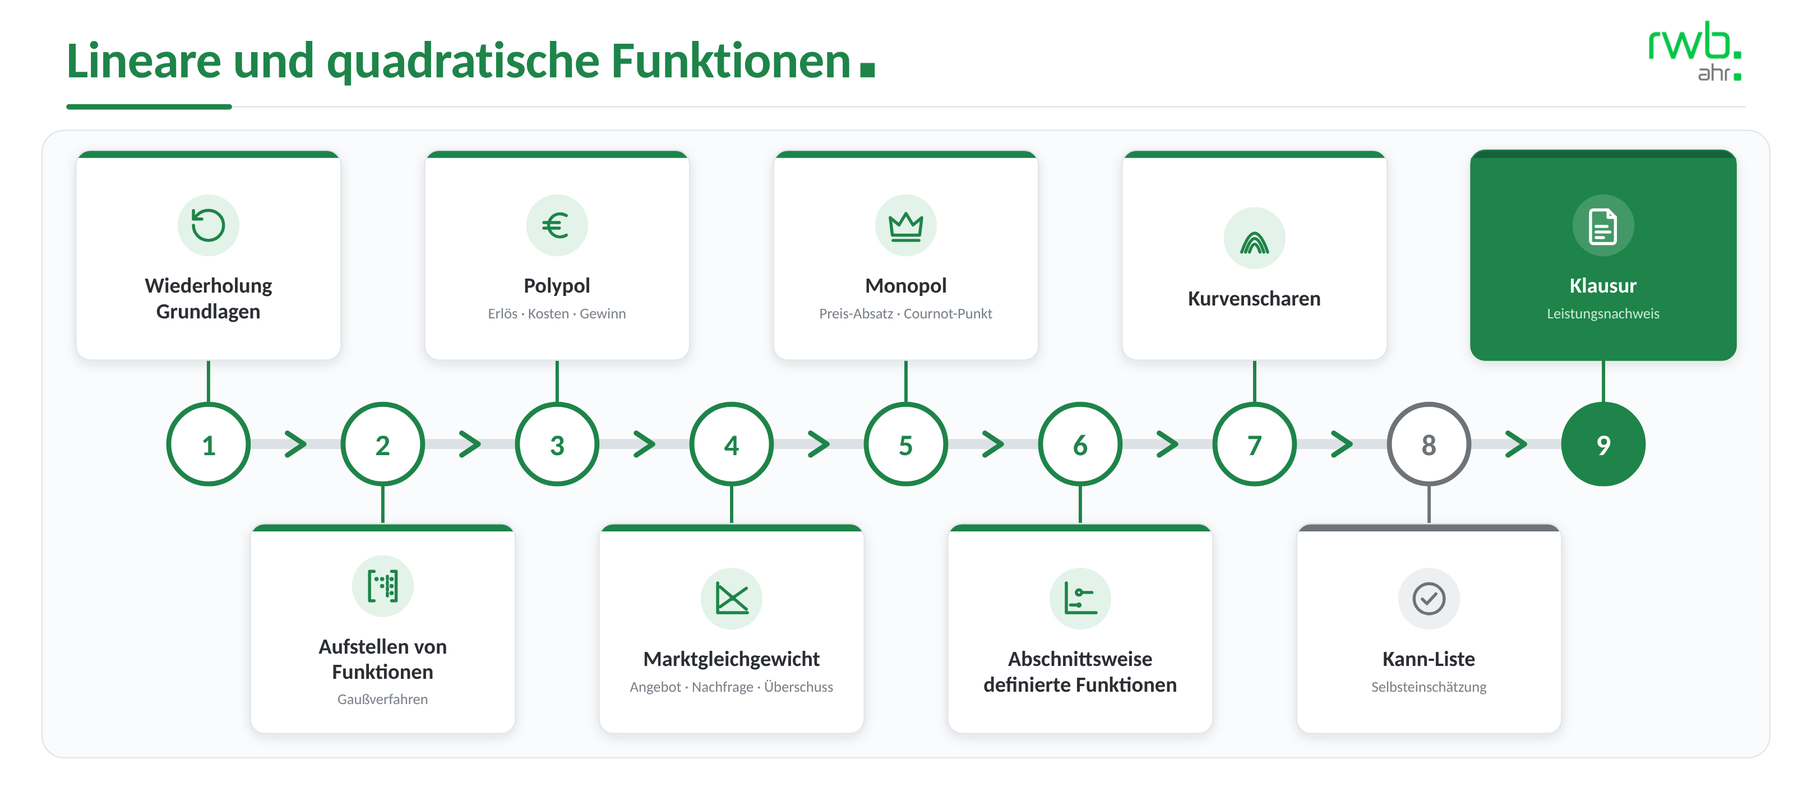
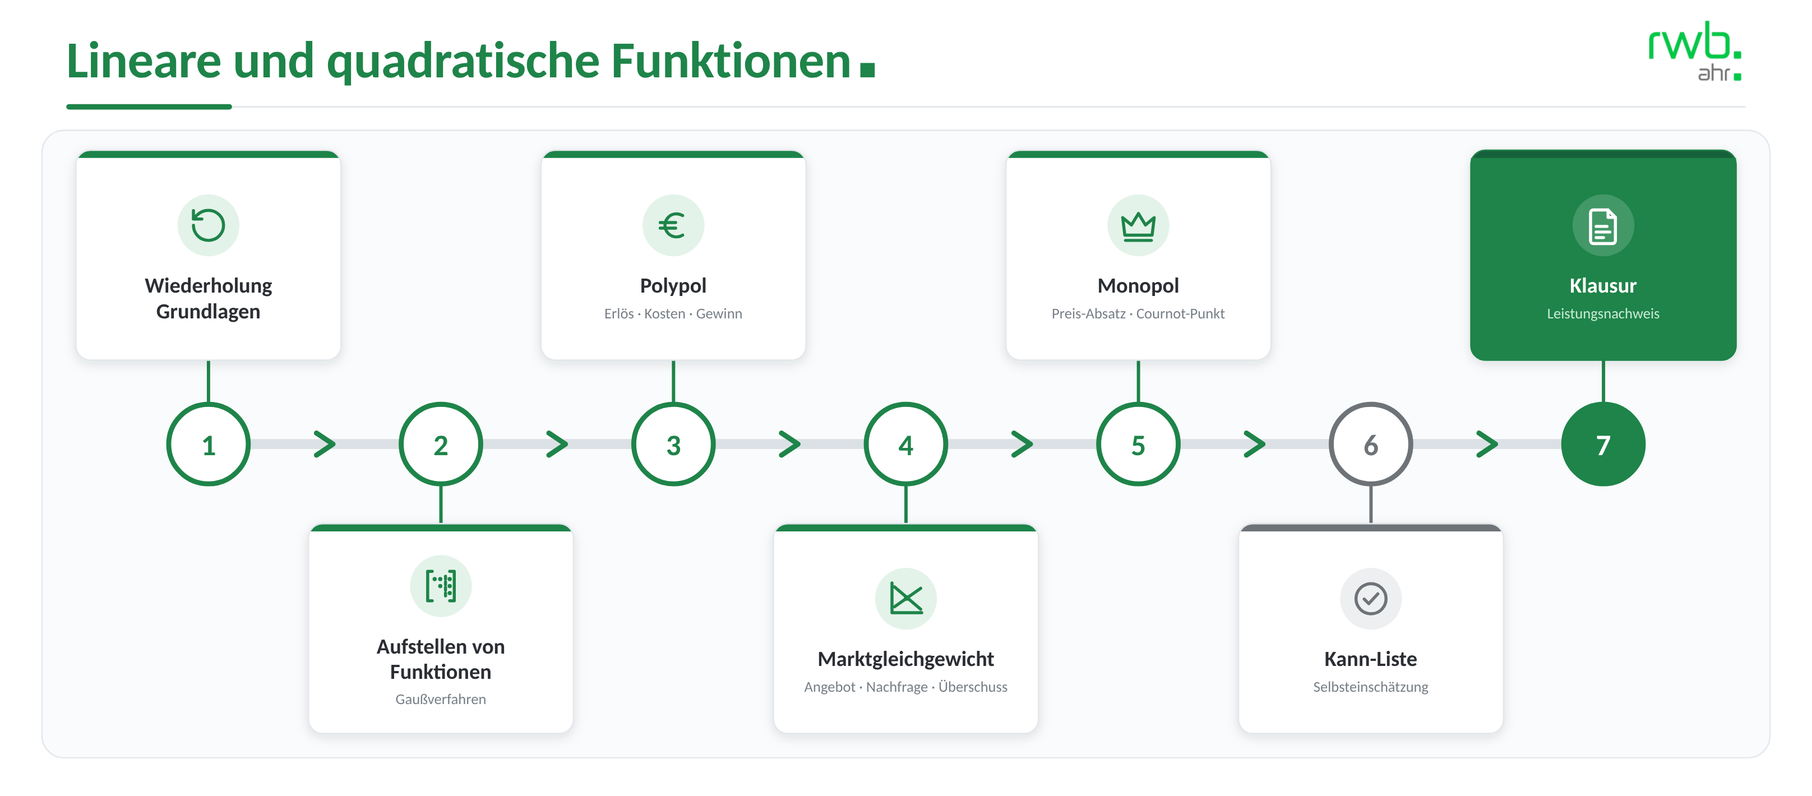
Lernlandkarte HAW: ohne Abschnittsweise definierte Funktionen und Kurvenscharen
Claude-Session: https://claude.ai/code/session_01KHnMYmCPgM823KCyKF4ujP

diff --git a/Lineare und quadratische Funktionen/Lernlandkarte_Lineare_und_quadratische_Funktionen_HAW.html b/Lineare und quadratische Funktionen/Lernlandkarte_Lineare_und_quadratische_Funktionen_HAW.html
@@ -28,7 +28,7 @@ svg{display:block; width:100%; height:auto;}
      LERNLANDKARTE – LINEARE UND QUADRATISCHE FUNKTIONEN (HAW, Q2)
      Übersicht ohne Verlinkungen. Die Klickpunkte werden in Moodle gesetzt.
      Variante A: Lernlandkarte_Lineare_und_quadratische_Funktionen_HAW.png als Bild mit Hotspots.
-     Variante B: Jede Station liegt als eigene SVG-Gruppe vor: <g id="station-1"> … <g id="station-9">
+     Variante B: Jede Station liegt als eigene SVG-Gruppe vor: <g id="station-1"> … <g id="station-7">
        Zum Verlinken die Gruppe umschliessen: <a href="URL" target="_top"><g id="station-1"> … </g></a>
      ====================================================================== -->
 <div class="wrap"><div class="card">
@@ -42,32 +42,26 @@ svg{display:block; width:100%; height:auto;}
 <rect x="60" y="96" width="1520" height="1.4" fill="#E3E7EC"/>
 <rect x="60" y="94.2" width="150" height="5" rx="2.5" fill="#1E8449"/>
 <rect x="188.7" y="397.5" width="1262.6" height="9" rx="4.5" fill="#DCE1E6"/>
-<path d="M260.1 392 L275.1 402 L260.1 412" fill="none" stroke="#1E8449" stroke-width="4.6" stroke-linecap="round" stroke-linejoin="round"/>
-<path d="M417.9 392 L432.9 402 L417.9 412" fill="none" stroke="#1E8449" stroke-width="4.6" stroke-linecap="round" stroke-linejoin="round"/>
-<path d="M575.8 392 L590.8 402 L575.8 412" fill="none" stroke="#1E8449" stroke-width="4.6" stroke-linecap="round" stroke-linejoin="round"/>
-<path d="M733.6 392 L748.6 402 L733.6 412" fill="none" stroke="#1E8449" stroke-width="4.6" stroke-linecap="round" stroke-linejoin="round"/>
-<path d="M891.4 392 L906.4 402 L891.4 412" fill="none" stroke="#1E8449" stroke-width="4.6" stroke-linecap="round" stroke-linejoin="round"/>
-<path d="M1049.2 392 L1064.2 402 L1049.2 412" fill="none" stroke="#1E8449" stroke-width="4.6" stroke-linecap="round" stroke-linejoin="round"/>
-<path d="M1207.1 392 L1222.1 402 L1207.1 412" fill="none" stroke="#1E8449" stroke-width="4.6" stroke-linecap="round" stroke-linejoin="round"/>
-<path d="M1364.9 392 L1379.9 402 L1364.9 412" fill="none" stroke="#1E8449" stroke-width="4.6" stroke-linecap="round" stroke-linejoin="round"/>
+<path d="M286.4 392 L301.4 402 L286.4 412" fill="none" stroke="#1E8449" stroke-width="4.6" stroke-linecap="round" stroke-linejoin="round"/>
+<path d="M496.8 392 L511.8 402 L496.8 412" fill="none" stroke="#1E8449" stroke-width="4.6" stroke-linecap="round" stroke-linejoin="round"/>
+<path d="M707.3 392 L722.3 402 L707.3 412" fill="none" stroke="#1E8449" stroke-width="4.6" stroke-linecap="round" stroke-linejoin="round"/>
+<path d="M917.7 392 L932.7 402 L917.7 412" fill="none" stroke="#1E8449" stroke-width="4.6" stroke-linecap="round" stroke-linejoin="round"/>
+<path d="M1128.1 392 L1143.1 402 L1128.1 412" fill="none" stroke="#1E8449" stroke-width="4.6" stroke-linecap="round" stroke-linejoin="round"/>
+<path d="M1338.6 392 L1353.6 402 L1338.6 412" fill="none" stroke="#1E8449" stroke-width="4.6" stroke-linecap="round" stroke-linejoin="round"/>
 <g id="station-1"><rect x="187.2" y="326" width="3" height="40" fill="#1E8449"/><g filter="url(#soft)"><rect x="68.7" y="136" width="240" height="190" rx="13" fill="#1E8449"/></g><path d="M68.7 143 h240 v170 a13 13 0 0 1 -13 13 h-214 a13 13 0 0 1 -13 -13 z" fill="#FFFFFF"/><rect x="68.7" y="136" width="240" height="190" rx="13" fill="none" stroke="#E3E7EC" stroke-width="1.3"/><circle cx="188.7" cy="204.0" r="28" fill="#E3F3E9"/><g transform="translate(169.7,185.0) scale(1.5833)" fill="none" stroke="#1E8449" stroke-width="1.75" stroke-linecap="round" stroke-linejoin="round"><path d="M3.4 12a8.6 8.6 0 1 0 8.6-8.6 9.3 9.3 0 0 0-6.5 2.7L3.4 8.2"/><path d="M3.4 3.6V8.4H8.2"/></g><text x="188.7" y="265.0" text-anchor="middle" font-family="Carlito, Calibri, 'Segoe UI', 'Helvetica Neue', Arial, sans-serif" font-size="19.5" font-weight="700" fill="#2B2E33">Wiederholung</text><text x="188.7" y="288.0" text-anchor="middle" font-family="Carlito, Calibri, 'Segoe UI', 'Helvetica Neue', Arial, sans-serif" font-size="19.5" font-weight="700" fill="#2B2E33">Grundlagen</text></g>
-<g id="station-2"><rect x="345.0" y="438" width="3" height="36" fill="#1E8449"/><g filter="url(#soft)"><rect x="226.5" y="474" width="240" height="190" rx="13" fill="#1E8449"/></g><path d="M226.5 481 h240 v170 a13 13 0 0 1 -13 13 h-214 a13 13 0 0 1 -13 -13 z" fill="#FFFFFF"/><rect x="226.5" y="474" width="240" height="190" rx="13" fill="none" stroke="#E3E7EC" stroke-width="1.3"/><circle cx="346.5" cy="530.5" r="28" fill="#E3F3E9"/><g transform="translate(327.5,511.5) scale(1.5833)" fill="none" stroke="#1E8449" stroke-width="1.75" stroke-linecap="round" stroke-linejoin="round"><path d="M7 3.6H4.4v16.8H7"/><path d="M17 3.6h2.6v16.8H17"/><path d="M14.6 6.4v11.2" stroke-dasharray="1.6 1.6"/><circle cx="8.4" cy="8" r="1.2" fill="#1E8449" stroke="none"/><circle cx="11.6" cy="8" r="1.2" fill="#1E8449" stroke="none"/><circle cx="17" cy="8" r="1.2" fill="#1E8449" stroke="none"/><circle cx="11.6" cy="12" r="1.2" fill="#1E8449" stroke="none"/><circle cx="17" cy="12" r="1.2" fill="#1E8449" stroke="none"/><circle cx="17" cy="16" r="1.2" fill="#1E8449" stroke="none"/></g><text x="346.5" y="591.5" text-anchor="middle" font-family="Carlito, Calibri, 'Segoe UI', 'Helvetica Neue', Arial, sans-serif" font-size="19.5" font-weight="700" fill="#2B2E33">Aufstellen von</text><text x="346.5" y="614.5" text-anchor="middle" font-family="Carlito, Calibri, 'Segoe UI', 'Helvetica Neue', Arial, sans-serif" font-size="19.5" font-weight="700" fill="#2B2E33">Funktionen</text><text x="346.5" y="637.5" text-anchor="middle" font-family="Carlito, Calibri, 'Segoe UI', 'Helvetica Neue', Arial, sans-serif" font-size="13.5" fill="#787F87">Gaußverfahren</text></g>
-<g id="station-3"><rect x="502.8" y="326" width="3" height="40" fill="#1E8449"/><g filter="url(#soft)"><rect x="384.3" y="136" width="240" height="190" rx="13" fill="#1E8449"/></g><path d="M384.3 143 h240 v170 a13 13 0 0 1 -13 13 h-214 a13 13 0 0 1 -13 -13 z" fill="#FFFFFF"/><rect x="384.3" y="136" width="240" height="190" rx="13" fill="none" stroke="#E3E7EC" stroke-width="1.3"/><circle cx="504.3" cy="204.0" r="28" fill="#E3F3E9"/><g transform="translate(485.3,185.0) scale(1.5833)" fill="none" stroke="#1E8449" stroke-width="1.75" stroke-linecap="round" stroke-linejoin="round"><path d="M17.2 6.4A6.6 6.6 0 1 0 17.2 17.6"/><path d="M4.4 10.4H13.2"/><path d="M4.4 13.6H13.2"/></g><text x="504.3" y="265.0" text-anchor="middle" font-family="Carlito, Calibri, 'Segoe UI', 'Helvetica Neue', Arial, sans-serif" font-size="19.5" font-weight="700" fill="#2B2E33">Polypol</text><text x="504.3" y="288.0" text-anchor="middle" font-family="Carlito, Calibri, 'Segoe UI', 'Helvetica Neue', Arial, sans-serif" font-size="13.5" fill="#787F87">Erlös · Kosten · Gewinn</text></g>
-<g id="station-4"><rect x="660.7" y="438" width="3" height="36" fill="#1E8449"/><g filter="url(#soft)"><rect x="542.2" y="474" width="240" height="190" rx="13" fill="#1E8449"/></g><path d="M542.2 481 h240 v170 a13 13 0 0 1 -13 13 h-214 a13 13 0 0 1 -13 -13 z" fill="#FFFFFF"/><rect x="542.2" y="474" width="240" height="190" rx="13" fill="none" stroke="#E3E7EC" stroke-width="1.3"/><circle cx="662.2" cy="542.0" r="28" fill="#E3F3E9"/><g transform="translate(643.2,523.0) scale(1.5833)" fill="none" stroke="#1E8449" stroke-width="1.75" stroke-linecap="round" stroke-linejoin="round"><path d="M4 3V20H21"/><path d="M5.4 5.2L20.4 18"/><path d="M5.4 16.6L20.4 6"/><circle cx="12.4" cy="11.6" r="1.6" fill="#1E8449" stroke="none"/></g><text x="662.2" y="603.0" text-anchor="middle" font-family="Carlito, Calibri, 'Segoe UI', 'Helvetica Neue', Arial, sans-serif" font-size="19.5" font-weight="700" fill="#2B2E33">Marktgleichgewicht</text><text x="662.2" y="626.0" text-anchor="middle" font-family="Carlito, Calibri, 'Segoe UI', 'Helvetica Neue', Arial, sans-serif" font-size="13.5" fill="#787F87">Angebot · Nachfrage · Überschuss</text></g>
-<g id="station-5"><rect x="818.5" y="326" width="3" height="40" fill="#1E8449"/><g filter="url(#soft)"><rect x="700.0" y="136" width="240" height="190" rx="13" fill="#1E8449"/></g><path d="M700.0 143 h240 v170 a13 13 0 0 1 -13 13 h-214 a13 13 0 0 1 -13 -13 z" fill="#FFFFFF"/><rect x="700.0" y="136" width="240" height="190" rx="13" fill="none" stroke="#E3E7EC" stroke-width="1.3"/><circle cx="820.0" cy="204.0" r="28" fill="#E3F3E9"/><g transform="translate(801.0,185.0) scale(1.5833)" fill="none" stroke="#1E8449" stroke-width="1.75" stroke-linecap="round" stroke-linejoin="round"><path d="M4.2 17.6 3 7.6l5 4.2 4-6.6 4 6.6 5-4.2-1.2 10Z"/><path d="M4.6 20.6H19.4"/></g><text x="820.0" y="265.0" text-anchor="middle" font-family="Carlito, Calibri, 'Segoe UI', 'Helvetica Neue', Arial, sans-serif" font-size="19.5" font-weight="700" fill="#2B2E33">Monopol</text><text x="820.0" y="288.0" text-anchor="middle" font-family="Carlito, Calibri, 'Segoe UI', 'Helvetica Neue', Arial, sans-serif" font-size="13.5" fill="#787F87">Preis-Absatz · Cournot-Punkt</text></g>
-<g id="station-6"><rect x="976.3" y="438" width="3" height="36" fill="#1E8449"/><g filter="url(#soft)"><rect x="857.8" y="474" width="240" height="190" rx="13" fill="#1E8449"/></g><path d="M857.8 481 h240 v170 a13 13 0 0 1 -13 13 h-214 a13 13 0 0 1 -13 -13 z" fill="#FFFFFF"/><rect x="857.8" y="474" width="240" height="190" rx="13" fill="none" stroke="#E3E7EC" stroke-width="1.3"/><circle cx="977.8" cy="542.0" r="28" fill="#E3F3E9"/><g transform="translate(958.8,523.0) scale(1.5833)" fill="none" stroke="#1E8449" stroke-width="1.75" stroke-linecap="round" stroke-linejoin="round"><path d="M4 3V20H21"/><path d="M6.4 15.6H11.2"/><path d="M11.2 8.4H18.6"/><circle cx="11.2" cy="15.6" r="1.5" fill="#1E8449" stroke="none"/><circle cx="11.2" cy="8.4" r="1.5" fill="#FFFFFF"/></g><text x="977.8" y="603.0" text-anchor="middle" font-family="Carlito, Calibri, 'Segoe UI', 'Helvetica Neue', Arial, sans-serif" font-size="19.5" font-weight="700" fill="#2B2E33">Abschnittsweise</text><text x="977.8" y="626.0" text-anchor="middle" font-family="Carlito, Calibri, 'Segoe UI', 'Helvetica Neue', Arial, sans-serif" font-size="19.5" font-weight="700" fill="#2B2E33">definierte Funktionen</text></g>
-<g id="station-7"><rect x="1134.1" y="326" width="3" height="40" fill="#1E8449"/><g filter="url(#soft)"><rect x="1015.6" y="136" width="240" height="190" rx="13" fill="#1E8449"/></g><path d="M1015.6 143 h240 v170 a13 13 0 0 1 -13 13 h-214 a13 13 0 0 1 -13 -13 z" fill="#FFFFFF"/><rect x="1015.6" y="136" width="240" height="190" rx="13" fill="none" stroke="#E3E7EC" stroke-width="1.3"/><circle cx="1135.6" cy="215.5" r="28" fill="#E3F3E9"/><g transform="translate(1116.6,196.5) scale(1.5833)" fill="none" stroke="#1E8449" stroke-width="1.75" stroke-linecap="round" stroke-linejoin="round"><path d="M4.6 20 Q12 -1.5 19.4 20"/><path d="M6.8 20 Q12 4.5 17.2 20"/><path d="M9 20 Q12 11 15 20"/></g><text x="1135.6" y="276.5" text-anchor="middle" font-family="Carlito, Calibri, 'Segoe UI', 'Helvetica Neue', Arial, sans-serif" font-size="19.5" font-weight="700" fill="#2B2E33">Kurvenscharen</text></g>
-<g id="station-8"><rect x="1292.0" y="438" width="3" height="36" fill="#6E7378"/><g filter="url(#soft)"><rect x="1173.5" y="474" width="240" height="190" rx="13" fill="#6E7378"/></g><path d="M1173.5 481 h240 v170 a13 13 0 0 1 -13 13 h-214 a13 13 0 0 1 -13 -13 z" fill="#FFFFFF"/><rect x="1173.5" y="474" width="240" height="190" rx="13" fill="none" stroke="#E3E7EC" stroke-width="1.3"/><circle cx="1293.5" cy="542.0" r="28" fill="#EEEFF1"/><g transform="translate(1274.5,523.0) scale(1.5833)" fill="none" stroke="#6E7378" stroke-width="1.75" stroke-linecap="round" stroke-linejoin="round"><circle cx="12" cy="12" r="8.6"/><path d="M8.1 12.2l2.6 2.6 5.2-5.6"/></g><text x="1293.5" y="603.0" text-anchor="middle" font-family="Carlito, Calibri, 'Segoe UI', 'Helvetica Neue', Arial, sans-serif" font-size="19.5" font-weight="700" fill="#2B2E33">Kann-Liste</text><text x="1293.5" y="626.0" text-anchor="middle" font-family="Carlito, Calibri, 'Segoe UI', 'Helvetica Neue', Arial, sans-serif" font-size="13.5" fill="#787F87">Selbsteinschätzung</text></g>
-<g id="station-9"><rect x="1449.8" y="326" width="3" height="40" fill="#1E8449"/><g filter="url(#soft)"><rect x="1331.3" y="136" width="240" height="190" rx="13" fill="#14603A"/></g><path d="M1331.3 143 h240 v170 a13 13 0 0 1 -13 13 h-214 a13 13 0 0 1 -13 -13 z" fill="#1E8449"/><rect x="1331.3" y="136" width="240" height="190" rx="13" fill="none" stroke="#1E8449" stroke-width="1.3"/><circle cx="1451.3" cy="204.0" r="28" fill="#FFFFFF" opacity="0.17"/><g transform="translate(1432.3,185.0) scale(1.5833)" fill="none" stroke="#FFFFFF" stroke-width="1.75" stroke-linecap="round" stroke-linejoin="round"><path d="M6.2 3.2h8.4l4.2 4.2v13.4a1.6 1.6 0 0 1-1.6 1.6H6.2a1.6 1.6 0 0 1-1.6-1.6V4.8a1.6 1.6 0 0 1 1.6-1.6z"/><path d="M14.6 3.2v4.2h4.2"/><path d="M7.8 12.6H14"/><path d="M7.8 15.8H15.6"/><path d="M7.8 19H12"/></g><text x="1451.3" y="265.0" text-anchor="middle" font-family="Carlito, Calibri, 'Segoe UI', 'Helvetica Neue', Arial, sans-serif" font-size="19.5" font-weight="700" fill="#FFFFFF">Klausur</text><text x="1451.3" y="288.0" text-anchor="middle" font-family="Carlito, Calibri, 'Segoe UI', 'Helvetica Neue', Arial, sans-serif" font-size="13.5" fill="#C9E9D6">Leistungsnachweis</text></g>
+<g id="station-2"><rect x="397.6" y="438" width="3" height="36" fill="#1E8449"/><g filter="url(#soft)"><rect x="279.1" y="474" width="240" height="190" rx="13" fill="#1E8449"/></g><path d="M279.1 481 h240 v170 a13 13 0 0 1 -13 13 h-214 a13 13 0 0 1 -13 -13 z" fill="#FFFFFF"/><rect x="279.1" y="474" width="240" height="190" rx="13" fill="none" stroke="#E3E7EC" stroke-width="1.3"/><circle cx="399.1" cy="530.5" r="28" fill="#E3F3E9"/><g transform="translate(380.1,511.5) scale(1.5833)" fill="none" stroke="#1E8449" stroke-width="1.75" stroke-linecap="round" stroke-linejoin="round"><path d="M7 3.6H4.4v16.8H7"/><path d="M17 3.6h2.6v16.8H17"/><path d="M14.6 6.4v11.2" stroke-dasharray="1.6 1.6"/><circle cx="8.4" cy="8" r="1.2" fill="#1E8449" stroke="none"/><circle cx="11.6" cy="8" r="1.2" fill="#1E8449" stroke="none"/><circle cx="17" cy="8" r="1.2" fill="#1E8449" stroke="none"/><circle cx="11.6" cy="12" r="1.2" fill="#1E8449" stroke="none"/><circle cx="17" cy="12" r="1.2" fill="#1E8449" stroke="none"/><circle cx="17" cy="16" r="1.2" fill="#1E8449" stroke="none"/></g><text x="399.1" y="591.5" text-anchor="middle" font-family="Carlito, Calibri, 'Segoe UI', 'Helvetica Neue', Arial, sans-serif" font-size="19.5" font-weight="700" fill="#2B2E33">Aufstellen von</text><text x="399.1" y="614.5" text-anchor="middle" font-family="Carlito, Calibri, 'Segoe UI', 'Helvetica Neue', Arial, sans-serif" font-size="19.5" font-weight="700" fill="#2B2E33">Funktionen</text><text x="399.1" y="637.5" text-anchor="middle" font-family="Carlito, Calibri, 'Segoe UI', 'Helvetica Neue', Arial, sans-serif" font-size="13.5" fill="#787F87">Gaußverfahren</text></g>
+<g id="station-3"><rect x="608.1" y="326" width="3" height="40" fill="#1E8449"/><g filter="url(#soft)"><rect x="489.6" y="136" width="240" height="190" rx="13" fill="#1E8449"/></g><path d="M489.6 143 h240 v170 a13 13 0 0 1 -13 13 h-214 a13 13 0 0 1 -13 -13 z" fill="#FFFFFF"/><rect x="489.6" y="136" width="240" height="190" rx="13" fill="none" stroke="#E3E7EC" stroke-width="1.3"/><circle cx="609.6" cy="204.0" r="28" fill="#E3F3E9"/><g transform="translate(590.6,185.0) scale(1.5833)" fill="none" stroke="#1E8449" stroke-width="1.75" stroke-linecap="round" stroke-linejoin="round"><path d="M17.2 6.4A6.6 6.6 0 1 0 17.2 17.6"/><path d="M4.4 10.4H13.2"/><path d="M4.4 13.6H13.2"/></g><text x="609.6" y="265.0" text-anchor="middle" font-family="Carlito, Calibri, 'Segoe UI', 'Helvetica Neue', Arial, sans-serif" font-size="19.5" font-weight="700" fill="#2B2E33">Polypol</text><text x="609.6" y="288.0" text-anchor="middle" font-family="Carlito, Calibri, 'Segoe UI', 'Helvetica Neue', Arial, sans-serif" font-size="13.5" fill="#787F87">Erlös · Kosten · Gewinn</text></g>
+<g id="station-4"><rect x="818.5" y="438" width="3" height="36" fill="#1E8449"/><g filter="url(#soft)"><rect x="700.0" y="474" width="240" height="190" rx="13" fill="#1E8449"/></g><path d="M700.0 481 h240 v170 a13 13 0 0 1 -13 13 h-214 a13 13 0 0 1 -13 -13 z" fill="#FFFFFF"/><rect x="700.0" y="474" width="240" height="190" rx="13" fill="none" stroke="#E3E7EC" stroke-width="1.3"/><circle cx="820.0" cy="542.0" r="28" fill="#E3F3E9"/><g transform="translate(801.0,523.0) scale(1.5833)" fill="none" stroke="#1E8449" stroke-width="1.75" stroke-linecap="round" stroke-linejoin="round"><path d="M4 3V20H21"/><path d="M5.4 5.2L20.4 18"/><path d="M5.4 16.6L20.4 6"/><circle cx="12.4" cy="11.6" r="1.6" fill="#1E8449" stroke="none"/></g><text x="820.0" y="603.0" text-anchor="middle" font-family="Carlito, Calibri, 'Segoe UI', 'Helvetica Neue', Arial, sans-serif" font-size="19.5" font-weight="700" fill="#2B2E33">Marktgleichgewicht</text><text x="820.0" y="626.0" text-anchor="middle" font-family="Carlito, Calibri, 'Segoe UI', 'Helvetica Neue', Arial, sans-serif" font-size="13.5" fill="#787F87">Angebot · Nachfrage · Überschuss</text></g>
+<g id="station-5"><rect x="1028.9" y="326" width="3" height="40" fill="#1E8449"/><g filter="url(#soft)"><rect x="910.4" y="136" width="240" height="190" rx="13" fill="#1E8449"/></g><path d="M910.4 143 h240 v170 a13 13 0 0 1 -13 13 h-214 a13 13 0 0 1 -13 -13 z" fill="#FFFFFF"/><rect x="910.4" y="136" width="240" height="190" rx="13" fill="none" stroke="#E3E7EC" stroke-width="1.3"/><circle cx="1030.4" cy="204.0" r="28" fill="#E3F3E9"/><g transform="translate(1011.4,185.0) scale(1.5833)" fill="none" stroke="#1E8449" stroke-width="1.75" stroke-linecap="round" stroke-linejoin="round"><path d="M4.2 17.6 3 7.6l5 4.2 4-6.6 4 6.6 5-4.2-1.2 10Z"/><path d="M4.6 20.6H19.4"/></g><text x="1030.4" y="265.0" text-anchor="middle" font-family="Carlito, Calibri, 'Segoe UI', 'Helvetica Neue', Arial, sans-serif" font-size="19.5" font-weight="700" fill="#2B2E33">Monopol</text><text x="1030.4" y="288.0" text-anchor="middle" font-family="Carlito, Calibri, 'Segoe UI', 'Helvetica Neue', Arial, sans-serif" font-size="13.5" fill="#787F87">Preis-Absatz · Cournot-Punkt</text></g>
+<g id="station-6"><rect x="1239.4" y="438" width="3" height="36" fill="#6E7378"/><g filter="url(#soft)"><rect x="1120.9" y="474" width="240" height="190" rx="13" fill="#6E7378"/></g><path d="M1120.9 481 h240 v170 a13 13 0 0 1 -13 13 h-214 a13 13 0 0 1 -13 -13 z" fill="#FFFFFF"/><rect x="1120.9" y="474" width="240" height="190" rx="13" fill="none" stroke="#E3E7EC" stroke-width="1.3"/><circle cx="1240.9" cy="542.0" r="28" fill="#EEEFF1"/><g transform="translate(1221.9,523.0) scale(1.5833)" fill="none" stroke="#6E7378" stroke-width="1.75" stroke-linecap="round" stroke-linejoin="round"><circle cx="12" cy="12" r="8.6"/><path d="M8.1 12.2l2.6 2.6 5.2-5.6"/></g><text x="1240.9" y="603.0" text-anchor="middle" font-family="Carlito, Calibri, 'Segoe UI', 'Helvetica Neue', Arial, sans-serif" font-size="19.5" font-weight="700" fill="#2B2E33">Kann-Liste</text><text x="1240.9" y="626.0" text-anchor="middle" font-family="Carlito, Calibri, 'Segoe UI', 'Helvetica Neue', Arial, sans-serif" font-size="13.5" fill="#787F87">Selbsteinschätzung</text></g>
+<g id="station-7"><rect x="1449.8" y="326" width="3" height="40" fill="#1E8449"/><g filter="url(#soft)"><rect x="1331.3" y="136" width="240" height="190" rx="13" fill="#14603A"/></g><path d="M1331.3 143 h240 v170 a13 13 0 0 1 -13 13 h-214 a13 13 0 0 1 -13 -13 z" fill="#1E8449"/><rect x="1331.3" y="136" width="240" height="190" rx="13" fill="none" stroke="#1E8449" stroke-width="1.3"/><circle cx="1451.3" cy="204.0" r="28" fill="#FFFFFF" opacity="0.17"/><g transform="translate(1432.3,185.0) scale(1.5833)" fill="none" stroke="#FFFFFF" stroke-width="1.75" stroke-linecap="round" stroke-linejoin="round"><path d="M6.2 3.2h8.4l4.2 4.2v13.4a1.6 1.6 0 0 1-1.6 1.6H6.2a1.6 1.6 0 0 1-1.6-1.6V4.8a1.6 1.6 0 0 1 1.6-1.6z"/><path d="M14.6 3.2v4.2h4.2"/><path d="M7.8 12.6H14"/><path d="M7.8 15.8H15.6"/><path d="M7.8 19H12"/></g><text x="1451.3" y="265.0" text-anchor="middle" font-family="Carlito, Calibri, 'Segoe UI', 'Helvetica Neue', Arial, sans-serif" font-size="19.5" font-weight="700" fill="#FFFFFF">Klausur</text><text x="1451.3" y="288.0" text-anchor="middle" font-family="Carlito, Calibri, 'Segoe UI', 'Helvetica Neue', Arial, sans-serif" font-size="13.5" fill="#C9E9D6">Leistungsnachweis</text></g>
 <circle cx="188.7" cy="402" r="36" fill="#FFFFFF" stroke="#1E8449" stroke-width="4.5"/><text x="188.7" y="412.0" text-anchor="middle" font-family="Carlito, Calibri, 'Segoe UI', 'Helvetica Neue', Arial, sans-serif" font-size="27" font-weight="700" fill="#1E8449">1</text>
-<circle cx="346.5" cy="402" r="36" fill="#FFFFFF" stroke="#1E8449" stroke-width="4.5"/><text x="346.5" y="412.0" text-anchor="middle" font-family="Carlito, Calibri, 'Segoe UI', 'Helvetica Neue', Arial, sans-serif" font-size="27" font-weight="700" fill="#1E8449">2</text>
-<circle cx="504.3" cy="402" r="36" fill="#FFFFFF" stroke="#1E8449" stroke-width="4.5"/><text x="504.3" y="412.0" text-anchor="middle" font-family="Carlito, Calibri, 'Segoe UI', 'Helvetica Neue', Arial, sans-serif" font-size="27" font-weight="700" fill="#1E8449">3</text>
-<circle cx="662.2" cy="402" r="36" fill="#FFFFFF" stroke="#1E8449" stroke-width="4.5"/><text x="662.2" y="412.0" text-anchor="middle" font-family="Carlito, Calibri, 'Segoe UI', 'Helvetica Neue', Arial, sans-serif" font-size="27" font-weight="700" fill="#1E8449">4</text>
-<circle cx="820.0" cy="402" r="36" fill="#FFFFFF" stroke="#1E8449" stroke-width="4.5"/><text x="820.0" y="412.0" text-anchor="middle" font-family="Carlito, Calibri, 'Segoe UI', 'Helvetica Neue', Arial, sans-serif" font-size="27" font-weight="700" fill="#1E8449">5</text>
-<circle cx="977.8" cy="402" r="36" fill="#FFFFFF" stroke="#1E8449" stroke-width="4.5"/><text x="977.8" y="412.0" text-anchor="middle" font-family="Carlito, Calibri, 'Segoe UI', 'Helvetica Neue', Arial, sans-serif" font-size="27" font-weight="700" fill="#1E8449">6</text>
-<circle cx="1135.6" cy="402" r="36" fill="#FFFFFF" stroke="#1E8449" stroke-width="4.5"/><text x="1135.6" y="412.0" text-anchor="middle" font-family="Carlito, Calibri, 'Segoe UI', 'Helvetica Neue', Arial, sans-serif" font-size="27" font-weight="700" fill="#1E8449">7</text>
-<circle cx="1293.5" cy="402" r="36" fill="#FFFFFF" stroke="#6E7378" stroke-width="4.5"/><text x="1293.5" y="412.0" text-anchor="middle" font-family="Carlito, Calibri, 'Segoe UI', 'Helvetica Neue', Arial, sans-serif" font-size="27" font-weight="700" fill="#6E7378">8</text>
-<circle cx="1451.3" cy="402" r="36" fill="#1E8449" stroke="#1E8449" stroke-width="4.5"/><text x="1451.3" y="412.0" text-anchor="middle" font-family="Carlito, Calibri, 'Segoe UI', 'Helvetica Neue', Arial, sans-serif" font-size="27" font-weight="700" fill="#FFFFFF">9</text>
+<circle cx="399.1" cy="402" r="36" fill="#FFFFFF" stroke="#1E8449" stroke-width="4.5"/><text x="399.1" y="412.0" text-anchor="middle" font-family="Carlito, Calibri, 'Segoe UI', 'Helvetica Neue', Arial, sans-serif" font-size="27" font-weight="700" fill="#1E8449">2</text>
+<circle cx="609.6" cy="402" r="36" fill="#FFFFFF" stroke="#1E8449" stroke-width="4.5"/><text x="609.6" y="412.0" text-anchor="middle" font-family="Carlito, Calibri, 'Segoe UI', 'Helvetica Neue', Arial, sans-serif" font-size="27" font-weight="700" fill="#1E8449">3</text>
+<circle cx="820.0" cy="402" r="36" fill="#FFFFFF" stroke="#1E8449" stroke-width="4.5"/><text x="820.0" y="412.0" text-anchor="middle" font-family="Carlito, Calibri, 'Segoe UI', 'Helvetica Neue', Arial, sans-serif" font-size="27" font-weight="700" fill="#1E8449">4</text>
+<circle cx="1030.4" cy="402" r="36" fill="#FFFFFF" stroke="#1E8449" stroke-width="4.5"/><text x="1030.4" y="412.0" text-anchor="middle" font-family="Carlito, Calibri, 'Segoe UI', 'Helvetica Neue', Arial, sans-serif" font-size="27" font-weight="700" fill="#1E8449">5</text>
+<circle cx="1240.9" cy="402" r="36" fill="#FFFFFF" stroke="#6E7378" stroke-width="4.5"/><text x="1240.9" y="412.0" text-anchor="middle" font-family="Carlito, Calibri, 'Segoe UI', 'Helvetica Neue', Arial, sans-serif" font-size="27" font-weight="700" fill="#6E7378">6</text>
+<circle cx="1451.3" cy="402" r="36" fill="#1E8449" stroke="#1E8449" stroke-width="4.5"/><text x="1451.3" y="412.0" text-anchor="middle" font-family="Carlito, Calibri, 'Segoe UI', 'Helvetica Neue', Arial, sans-serif" font-size="27" font-weight="700" fill="#FFFFFF">7</text>
 </svg>
 </div></div>
 <script>(function(){function h(){var b=document.body,s=getComputedStyle(b);return Math.ceil(b.getBoundingClientRect().height+parseFloat(s.marginTop)+parseFloat(s.marginBottom));}function send(){try{parent.postMessage({grundlagenHeight:h(),rwbFrame:location.pathname},'*');}catch(e){}}window.addEventListener('load',send);window.addEventListener('resize',send);if(window.ResizeObserver){new ResizeObserver(send).observe(document.body);}setTimeout(send,500);})();</script>
